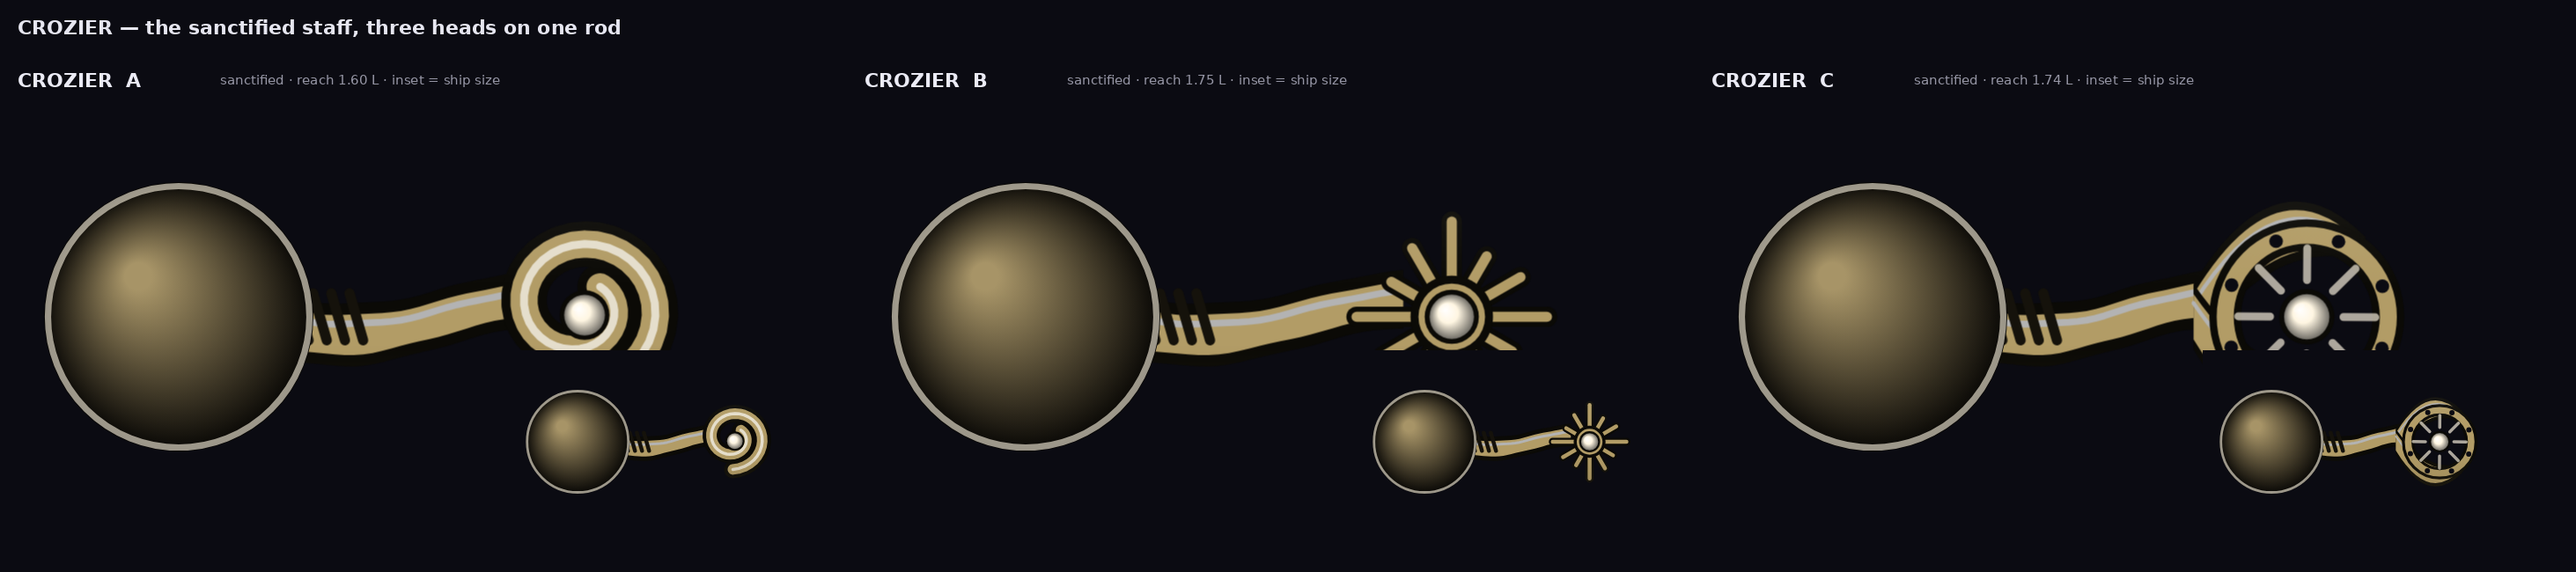
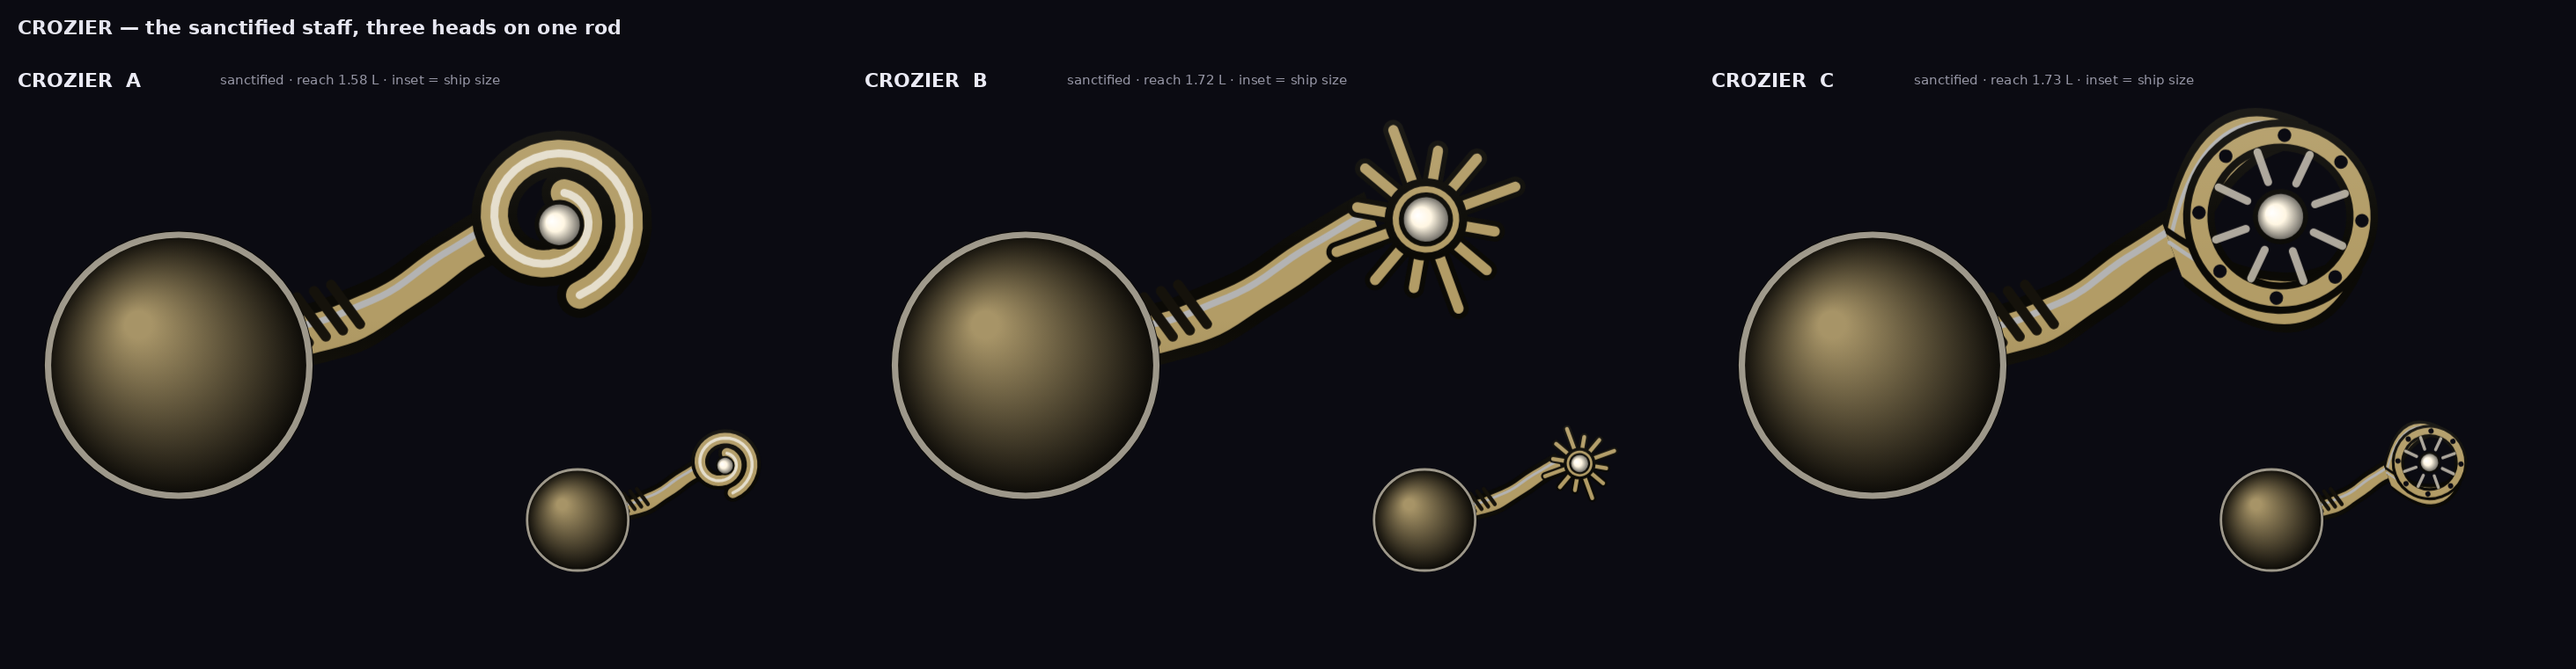
Staff art: the dwarven head redone as machinery (jaws, fork, cog) from Rick's three references; sheets drawn at a tilt so the lit face and the dark underside both show
Claude-Session: https://claude.ai/code/session_019ZER4dXEKx21iZx6apzKeB

diff --git a/06-docs/v89/staff_spec.js b/06-docs/v89/staff_spec.js
@@ -367,45 +367,66 @@ const STAFF = {
     }
   },
 
-  /* DWARVEN — CULVERIN. Iron on wood: the head is a gun. A: a BELL muzzle
-     flaring off a banded barrel, an ember in the bore. B: a MORTAR — a
-     short fat tube strapped to the pole, the bore facing +x. C: a
-     HAMMER-BORE — the school's square iron head with the bore drilled
-     through it, the maker's chevron on the cheek. */
+  /* DWARVEN — CULVERIN. Rick's second round of references (refs 7-9): not a
+     gun -- MACHINERY. Brass and iron, plates and rings, a shaft that is
+     banded and segmented, and a head that is a mechanism holding a sphere.
+     A: DWEMER — two angular brass jaws hold a dark iron sphere, an ember in
+        it, three brass plates on the jaws (ref 8).
+     B: the FORK — two curved iron prongs off a hub, a lit band between
+        them, a segmented shaft with glowing rings (ref 7).
+     C: the COG — a toothed wheel on a bracket, an ember at the hub, an
+        angled plate behind it (ref 9). */
   dwarven(c, L, W, p, v){
-    const S = SHAPES, TAU = STAFF.TAU, iron = S._shade(p.steel, 0.6, 0.2);
-    const bore = (x, ry) => { c.fillStyle = S._ink(p.dark, 9.7); c.beginPath(); c.ellipse(x, 0, ry*0.36, ry*1.12, 0, 0, TAU); c.fill();
-      c.fillStyle = S._ink(p.dark, 3); c.beginPath(); c.ellipse(x, 0, ry*0.30, ry, 0, 0, TAU); c.fill();
-      const g = c.createRadialGradient(x, 0, 0, x, 0, ry*0.6); g.addColorStop(0, p.glow); g.addColorStop(0.5, p.core); g.addColorStop(1, p.core + "00"); c.fillStyle = g; c.beginPath(); c.ellipse(x, 0, ry*0.24, ry*0.6, 0, 0, TAU); c.fill(); };
-    const bands = (xs, h) => { for (const x of xs){ c.fillStyle = S._ink(p.dark, 9.7); c.fillRect(x - W*0.045, -h - 1, W*0.09, 2*h + 2); c.fillStyle = iron; c.fillRect(x - W*0.03, -h, W*0.06, 2*h); c.fillStyle = p.core + "66"; c.fillRect(x - W*0.03, -h, W*0.06, h*0.3); } };
+    const S = SHAPES, TAU = STAFF.TAU;
+    const brass = S._shade(p.glow, 0.62, 0.25), brassDk = S._shade(p.core, 0.75, 0.15), iron = S._shade(p.steel, 0.62, 0.2), ironDk = S._ink(p.dark, 18);
+    const ring = (x, h, wd) => { c.fillStyle = S._ink(p.dark, 9.7); c.fillRect(x - wd/2 - 1, -h - 1, wd + 2, 2*h + 2); c.fillStyle = brass; c.fillRect(x - wd/2, -h, wd, 2*h); c.fillStyle = brassDk; c.fillRect(x - wd/2, h*0.2, wd, h*0.8); };
+    const sphere = (x, r) => { c.fillStyle = S._ink(p.dark, 9.7); c.beginPath(); c.arc(x, 0, r*1.12, 0, TAU); c.fill();
+      const g = c.createRadialGradient(x - r*0.35, -r*0.35, 0, x, 0, r); g.addColorStop(0, S._shade(p.steel, 0.8, 0.2)); g.addColorStop(0.6, ironDk); g.addColorStop(1, S._ink(p.dark, 6)); c.fillStyle = g; c.beginPath(); c.arc(x, 0, r, 0, TAU); c.fill();
+      c.strokeStyle = brass + "AA"; c.lineWidth = Math.max(1, W*0.025); c.beginPath(); c.arc(x, 0, r*0.72, 0, TAU); c.stroke();          // a seam
+      const e = c.createRadialGradient(x + r*0.15, 0, 0, x + r*0.15, 0, r*0.5); e.addColorStop(0, p.glow); e.addColorStop(0.5, p.core); e.addColorStop(1, p.core + "00"); c.fillStyle = e; c.beginPath(); c.arc(x + r*0.15, 0, r*0.5, 0, TAU); c.fill(); };   // the ember, where the slug leaves
+    const plate = (x, y, a, w, h) => { c.save(); c.translate(x, y); c.rotate(a);
+      c.fillStyle = S._ink(p.dark, 9.7); c.fillRect(-w/2 - 1.5, -h/2 - 1.5, w + 3, h + 3); c.fillStyle = brass; c.fillRect(-w/2, -h/2, w, h); c.fillStyle = brassDk; c.fillRect(-w/2, 0, w, h/2);
+      c.fillStyle = S._ink(p.dark, 9.7); c.beginPath(); c.arc(0, 0, Math.min(w, h)*0.14, 0, TAU); c.fill(); c.restore(); };   // a rivet
     if (v === "A"){
-      STAFF.pole(c, L, W, p, { end: 0.50, hw: 0.13, gnarl: 0.08 });
-      const barrel = (g, col) => { c.fillStyle = col; c.beginPath();
-        c.moveTo(L*0.46, -W*0.14 - g); c.lineTo(L*0.80, -W*0.15 - g); c.quadraticCurveTo(L*0.92, -W*0.16 - g, L*1.00 + g, -W*0.40 - g);
-        c.lineTo(L*1.00 + g, W*0.40 + g); c.quadraticCurveTo(L*0.92, W*0.16 + g, L*0.80, W*0.15 + g); c.lineTo(L*0.46, W*0.14 + g); c.closePath(); c.fill(); };
-      barrel(W*0.05, S._ink(p.dark, 9.7)); barrel(0, S._ink(p.dark, 20));
-      c.strokeStyle = iron; c.lineWidth = Math.max(1, W*0.035); c.beginPath(); c.moveTo(L*0.48, -W*0.11); c.lineTo(L*0.80, -W*0.12); c.quadraticCurveTo(L*0.92, -W*0.13, L*0.98, -W*0.36); c.stroke();
-      bands([L*0.52, L*0.68], W*0.17);
-      bore(L*0.99, W*0.36);
+      STAFF.pole(c, L, W, p, { end: 0.60, hw: 0.10, gnarl: 0.0, bend: 0.0, body: ironDk, grip: false });
+      for (const x of [L*0.08, L*0.22, L*0.36, L*0.50]) ring(x, W*0.14, W*0.06);
+      const cx = L*0.82, r = W*0.24;
+      for (const sg of [-1, 1]){                                                  // the jaws: two angular brass arms, pole -> out -> forward -> in past the sphere's equator
+        const jaw = (wd, col) => { c.strokeStyle = col; c.lineWidth = Math.max(1, W*wd); c.lineJoin = "miter"; c.lineCap = "butt"; c.beginPath();
+          c.moveTo(L*0.60, sg*W*0.04); c.lineTo(L*0.66, sg*W*0.34); c.lineTo(cx + r*0.45, sg*W*0.36); c.lineTo(cx + r*1.05, sg*W*0.16); c.stroke(); };
+        jaw(0.20, S._ink(p.dark, 9.7)); jaw(0.12, brass); jaw(0.03, S._shade(p.steel, 1.0, 0.3));
+        c.strokeStyle = brassDk; c.lineWidth = Math.max(1, W*0.04); c.beginPath(); c.moveTo(L*0.66 + W*0.03, sg*W*0.30); c.lineTo(cx + r*0.45, sg*W*0.31); c.stroke();
+      }
+      sphere(cx, r);
+      plate(cx + r*0.9, -W*0.30, 0.5, W*0.12, W*0.09); plate(cx + r*0.9, W*0.30, -0.5, W*0.12, W*0.09); plate(L*0.62, 0, 0, W*0.10, W*0.26);
     } else if (v === "B"){
-      STAFF.pole(c, L, W, p, { end: 0.60, hw: 0.13, gnarl: 0.08 });
-      const x0 = L*0.44, x1 = L*1.00, h = W*0.36;
-      c.fillStyle = S._ink(p.dark, 9.7); c.fillRect(x0 - W*0.05, -h - W*0.05, x1 - x0 + W*0.10, 2*h + W*0.10);
-      c.fillStyle = S._ink(p.dark, 20); c.fillRect(x0, -h, x1 - x0, 2*h);
-      c.fillStyle = iron; c.fillRect(x0, -h, x1 - x0, W*0.05);
-      bands([x0 + W*0.12, x0 + (x1 - x0)*0.5, x1 - W*0.12], h);
-      bore(L*0.98, h*0.82);
+      STAFF.pole(c, L, W, p, { end: 0.62, hw: 0.10, gnarl: 0.0, bend: 0.0, body: ironDk, grip: false });
+      for (const x of [L*0.10, L*0.26, L*0.42]){ c.fillStyle = S._ink(p.dark, 9.7); c.fillRect(x - W*0.05 - 1, -W*0.15 - 1, W*0.10 + 2, W*0.30 + 2); c.fillStyle = iron; c.fillRect(x - W*0.05, -W*0.15, W*0.10, W*0.30); c.fillStyle = p.core; c.fillRect(x - W*0.035, -W*0.12, W*0.07, W*0.24); c.fillStyle = p.glow; c.fillRect(x - W*0.035, -W*0.12, W*0.07, W*0.06); }   // the glowing rings
+      const hx = L*0.66, hr = W*0.14;                                             // the hub
+      c.fillStyle = S._ink(p.dark, 9.7); c.beginPath(); c.arc(hx, 0, hr*1.25, 0, TAU); c.fill(); c.fillStyle = iron; c.beginPath(); c.arc(hx, 0, hr, 0, TAU); c.fill();
+      for (const sg of [-1, 1]){                                                  // two prongs, curving out and forward, flattening at the tips
+        const prong = (wd, col) => { c.strokeStyle = col; c.lineWidth = Math.max(1, W*wd); c.lineCap = "round"; c.beginPath();
+          c.moveTo(hx, sg*hr*0.4); c.quadraticCurveTo(hx + L*0.06, sg*W*0.42, hx + L*0.24, sg*W*0.40); c.quadraticCurveTo(hx + L*0.32, sg*W*0.38, L*1.00, sg*W*0.22); c.stroke(); };
+        prong(0.19, S._ink(p.dark, 9.7)); prong(0.11, ironDk); prong(0.035, iron);
+        c.fillStyle = S._ink(p.dark, 9.7); c.beginPath(); c.moveTo(L*0.98, sg*W*0.22); c.lineTo(L*1.06, sg*W*0.10); c.lineTo(L*0.94, sg*W*0.13); c.closePath(); c.fill();   // a barb at each tip
+      }
+      const g = c.createLinearGradient(0, -W*0.22, 0, W*0.22); g.addColorStop(0, p.core + "00"); g.addColorStop(0.5, p.glow); g.addColorStop(1, p.core + "00");   // the lit band between the prongs
+      c.fillStyle = g; c.fillRect(hx + L*0.20, -W*0.22, W*0.08, W*0.44);
+      sphere(hx + L*0.11, W*0.11);
     } else {
-      STAFF.pole(c, L, W, p, { end: 0.60, hw: 0.13, gnarl: 0.08 });
-      const x0 = L*0.56, x1 = L*1.00, h = W*0.42;
-      const head = (g, col) => { c.fillStyle = col; c.beginPath();
-        c.moveTo(x0 - g, -h*0.5 - g); c.lineTo(x0 + (x1 - x0)*0.22, -h - g); c.lineTo(x1 + g, -h - g); c.lineTo(x1 + g, h + g); c.lineTo(x0 + (x1 - x0)*0.22, h + g); c.lineTo(x0 - g, h*0.5 + g); c.closePath(); c.fill(); };
-      head(W*0.05, S._ink(p.dark, 9.7)); head(0, S._ink(p.dark, 20));
-      c.strokeStyle = iron; c.lineWidth = Math.max(1, W*0.035); c.beginPath(); c.moveTo(x0 + (x1 - x0)*0.26, -h*0.84); c.lineTo(x1 - W*0.04, -h*0.84); c.stroke();
-      c.strokeStyle = p.core + "99"; c.lineWidth = Math.max(1, W*0.04); c.lineJoin = "round";
-      c.beginPath(); c.moveTo(x0 + (x1 - x0)*0.40, -h*0.45); c.lineTo(x0 + (x1 - x0)*0.60, 0); c.lineTo(x0 + (x1 - x0)*0.40, h*0.45); c.stroke();
-      bands([x0 - W*0.05], W*0.20);
-      bore(L*0.98, h*0.66);
+      STAFF.pole(c, L, W, p, { end: 0.64, hw: 0.10, gnarl: 0.0, bend: 0.0, body: S._shade(p.dark, 1.4, 0.05), grip: false });
+      for (const x of [L*0.12, L*0.30, L*0.48]) ring(x, W*0.13, W*0.05);
+      const cx = L*0.82, r = W*0.30;
+      plate(L*0.72, -W*0.12, -0.35, W*0.34, W*0.16);                             // the angled plate behind the wheel
+      const bracket = (g, col) => { c.fillStyle = col; c.beginPath(); c.moveTo(L*0.60, -W*0.07 - g); c.lineTo(L*0.72 + g, -W*0.20 - g); c.lineTo(L*0.72 + g, W*0.20 + g); c.lineTo(L*0.60, W*0.07 + g); c.closePath(); c.fill(); };
+      bracket(W*0.045, S._ink(p.dark, 9.7)); bracket(0, brass);
+      const cog = (g, col) => { c.fillStyle = col; c.beginPath();                  // twelve teeth
+        for (let i = 0; i < 24; i++){ const a = i*TAU/24, rr = (i % 2 ? r : r*0.80) + g; c.lineTo(cx + Math.cos(a)*rr, Math.sin(a)*rr); const a2 = (i + 0.5)*TAU/24; c.lineTo(cx + Math.cos(a2)*rr, Math.sin(a2)*rr); }
+        c.closePath(); c.fill(); };
+      cog(W*0.045, S._ink(p.dark, 9.7)); cog(0, brass);
+      c.fillStyle = brassDk; c.beginPath(); c.arc(cx, 0, r*0.62, 0, TAU); c.fill();
+      c.fillStyle = S._ink(p.dark, 9.7); for (let i = 0; i < 4; i++){ const a = i*TAU/4 + 0.4; c.beginPath(); c.arc(cx + Math.cos(a)*r*0.42, Math.sin(a)*r*0.42, W*0.035, 0, TAU); c.fill(); }   // spoke holes
+      sphere(cx, r*0.32);
     }
   },
 

diff --git a/tools/staff_art_lab.py b/tools/staff_art_lab.py
@@ -27,6 +27,7 @@ ap.add_argument("--spec", required=True)
 ap.add_argument("--out", required=True)
 ap.add_argument("--zoom", type=float, default=4.5)
 ap.add_argument("--ship", type=float, default=1080/620)
+ap.add_argument("--rot", type=float, default=-0.35, help="facing, radians; the engine lights by world orientation, so a tilt shows the lit face and the dark underside the way play does")
 a = ap.parse_args()
 
 SCHOOLS = ["bloodsworn", "umbral", "vigil", "verdant", "runic", "sanctified", "dwarven"]
@@ -46,14 +47,14 @@ DRAW = r"""(cfg) => {
   const cv = document.getElementById('__staffcv'), c = cv.getContext('2d');
   const L = 60, W = 44, R = CONFIG.physics.ballR, z = cfg.zoom;
   const butt = 4;
-  cv.width = Math.ceil((butt + R*2 + L*2.2) * z) + 24; cv.height = Math.ceil(W*2.4*z) + 24;
+  cv.width = Math.ceil((butt + R*2 + L*2.2) * z) + 24; cv.height = Math.ceil((W*2.4 + L*1.2*Math.abs(Math.sin(cfg.rot)))*z) + 24;
   c.setTransform(1,0,0,1,0,0); c.globalCompositeOperation = 'source-over'; c.globalAlpha = 1;
   c.fillStyle = cfg.bg; c.fillRect(0, 0, cv.width, cv.height);
   const p = Object.assign({}, AFFINITIES[cfg.key]);
   const ox = 12 + (butt + R)*z, oy = cv.height/2;
   // the weapon FIRST, exactly as drawWeapon places it (at the ball's edge, along the facing) -- drawFighter draws the shell over it
-  c.save(); c.translate(ox, oy); c.scale(z, z); c.translate(R - 6, 0);
-  if (!litWeapon(c, 'staff', L, W, p, 0.5, 0)) SHAPES.staff(c, L, W, p, 0.5);
+  c.save(); c.translate(ox, oy); c.scale(z, z); c.rotate(cfg.rot); c.translate(R - 6, 0);
+  if (!litWeapon(c, 'staff', L, W, p, 0.5, cfg.rot)) SHAPES.staff(c, L, W, p, 0.5);
   c.restore();
   // then the ball: the school's dark with a lit rim, the way the shell reads in the arena
   c.save(); c.translate(ox, oy); c.scale(z, z);
@@ -67,7 +68,7 @@ DRAW = r"""(cfg) => {
   const edge = ox + R*z;
   for (let y = 0; y < cv.height; y++) for (let x = Math.floor(edge); x < cv.width; x++){
     const i = (y*cv.width + x)*4; if (Math.abs(id[i]-cfg.bgc[0]) + Math.abs(id[i+1]-cfg.bgc[1]) + Math.abs(id[i+2]-cfg.bgc[2]) > 24) if (x > maxx) maxx = x; }
-  const reach = (maxx - (ox + (R - 6)*z)) / (L*z);   // in SIM reaches (L = 60), not in the art's own 1.7 L
+  const reach = (maxx - (ox + (R - 6)*z)) / (L*z*Math.cos(cfg.rot));   // in SIM reaches (L = 60), not in the art's own 1.7 L
   return { png: cv.toDataURL('image/png').slice(22), reach };
 }"""
 
@@ -79,8 +80,8 @@ with game(game_path=pathlib.Path(a.game).resolve()) as (page, errors):
     cells = {}
     for key in SCHOOLS:
         for v in "ABC":
-            big = page.evaluate(DRAW, {"key": key, "v": v, "zoom": a.zoom, "bg": BG, "bgc": BGC})
-            small = page.evaluate(DRAW, {"key": key, "v": v, "zoom": a.ship, "bg": BG, "bgc": BGC})
+            big = page.evaluate(DRAW, {"key": key, "v": v, "zoom": a.zoom, "bg": BG, "bgc": BGC, "rot": a.rot})
+            small = page.evaluate(DRAW, {"key": key, "v": v, "zoom": a.ship, "bg": BG, "bgc": BGC, "rot": a.rot})
             cells[(key, v)] = (big, small)
             print(f"  {key:<11} {v}  reach {big['reach']:.2f} L")
     assert not errors, errors

diff --git a/06-docs/v89/staff-art-v89.md b/06-docs/v89/staff-art-v89.md
@@ -15,7 +15,8 @@ sheet, Code pastes the chosen spec and gates it pixel-identical to the sheet.
   candidates inside it, `STAFF.staff` the dispatcher. **Code pastes this as
   `SHAPES.staff`, sets `STAFF.pick` to Rick's seven letters, deletes the
   losers.** `tools/staff_art_lab.py` re-renders the sheet from it.
-- `06-docs/v89/refs/ref-staff-1..6` — Rick's six references (2026-09-27).
+- `06-docs/v89/refs/ref-staff-1..6` — Rick's six references (2026-09-27); `ref-staff-7..9` — his three for the dwarven redo (a horned iron staff, a Dwemer sphere-in-jaws, a hand-built cog head).
+- **The sheets are drawn at a tilt (−0.35 rad, `--rot`)** because the engine lights a weapon by its world orientation — a horizontal staff's whole underside takes the school's `dark`, and on the near-black hall a brass jaw on the underside vanished. Tilted, the sheet shows what play shows: a lit face and a dark one.
 
 ## The three cuts
 
@@ -79,9 +80,10 @@ CIPHER       A  an open RING holding an orb, the glyph in the orb (ref 3)
 CROZIER      A  the CROOK — a gilt spiral with a bead of light in the curl (refs 2, 6)
              B  a sunburst on a finial
              C  a pierced halo held by two prongs (the bow's monstrance)
-CULVERIN     A  a bell muzzle flaring off a banded barrel, an ember in the bore
-             B  a mortar — a short fat tube strapped to the pole
-             C  a hammer-head with the bore drilled through it, the maker's chevron
+CULVERIN     A  DWEMER: two angular brass jaws hold a dark iron sphere with an ember in it; brass rings down an iron shaft (ref 8)
+             B  the FORK: two curved iron prongs off a hub, a lit band between them, glowing rings on the shaft (ref 7)
+             C  the COG: a toothed brass wheel on a bracket, an ember at the hub, an angled plate behind (ref 9)
+             (the first dwarven round was a cannon — bell, mortar, hammer-bore — and Rick sent it back: "try again on dwarven." Machinery, not guns.)
 ```
 
 ## What Code does with the pick
